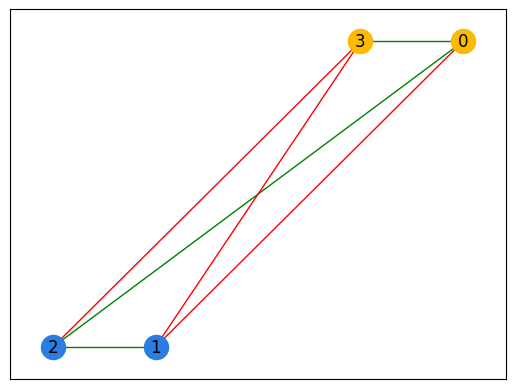
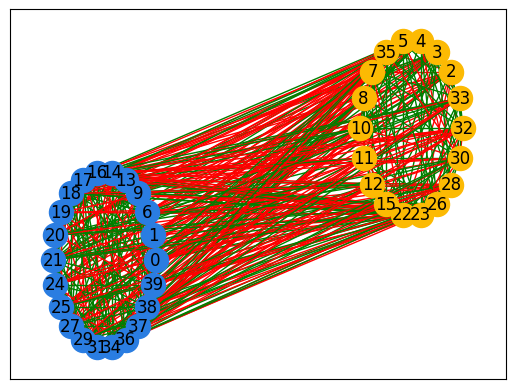
changed sample size

diff --git a/friends_enemies_qpu.py b/friends_enemies_qpu.py
@@ -31,7 +31,7 @@ def get_graph():
     """
 
     # TODO: Change this parameter if you'd like to change the size of the graph (social network)
-    graph_size = 4
+    graph_size = 40
 
     # Generate a random graph (with a 60% probability of edge creation)
     G = nx.gnp_random_graph(graph_size, 0.60)
